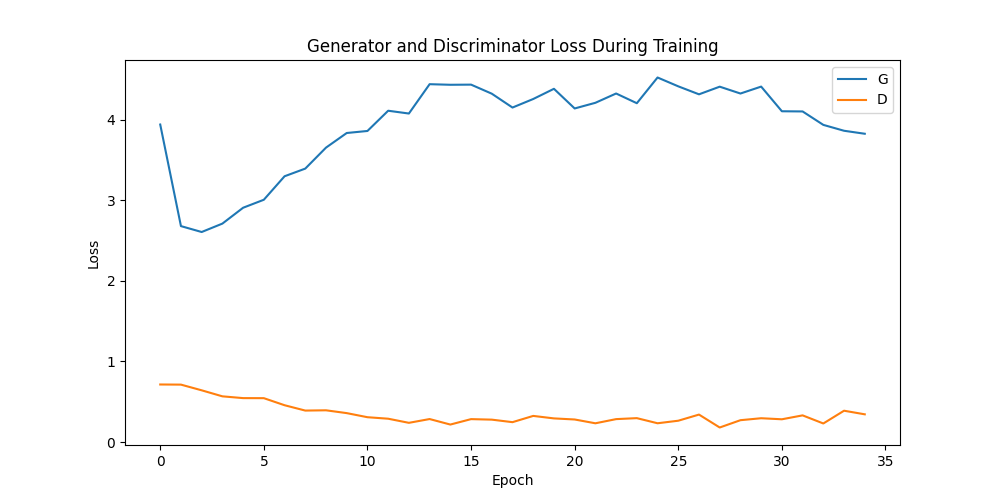
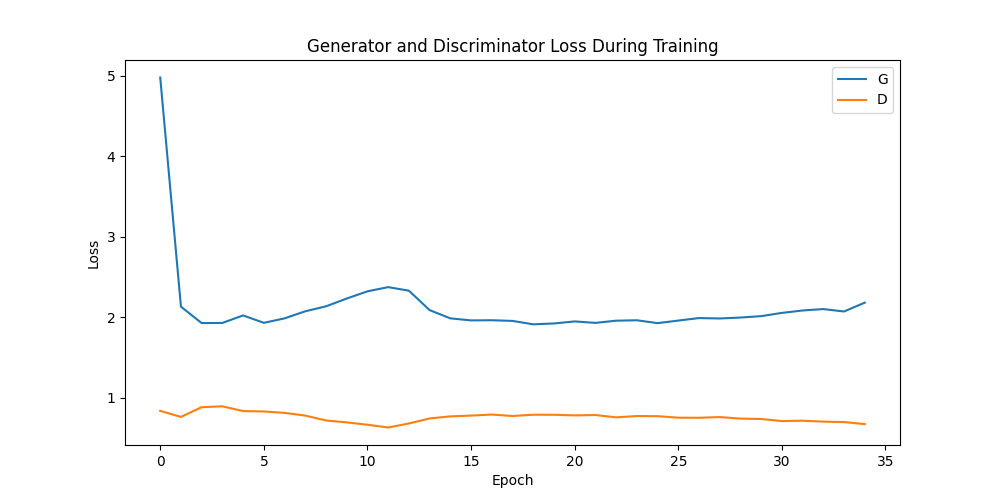
LSGAN
https://arxiv.org/pdf/1611.04076.pdf

diff --git a/src/train.py b/src/train.py
@@ -8,7 +8,7 @@ from tensorflow.keras import layers, Model
 from tqdm import tqdm
 
 IMAGE_SIZE = 64
-LATENT_SIZE = 128
+LATENT_SIZE = 1024
 BATCH_SIZE = 128
 EPOCHS = 35
 LR = 0.0002
@@ -17,25 +17,24 @@ LR = 0.0002
 def build_discriminator() -> Model:
     model = tf.keras.Sequential([
         layers.Input(shape=(IMAGE_SIZE, IMAGE_SIZE, 3)),
-        layers.Conv2D(64, (4, 4), strides=(2, 2), padding='same', use_bias=False),
+        layers.Conv2D(64, (5, 5), strides=(2, 2), padding='same', use_bias=False),
+        layers.LeakyReLU(0.2),
+        
+        layers.Conv2D(128, (5, 5), strides=(2, 2), padding='same', use_bias=False),
         layers.BatchNormalization(),
         layers.LeakyReLU(0.2),
         
-        layers.Conv2D(128, (4, 4), strides=(2, 2), padding='same', use_bias=False),
+        layers.Conv2D(256, (5, 5), strides=(2, 2), padding='same', use_bias=False),
         layers.BatchNormalization(),
         layers.LeakyReLU(0.2),
         
-        layers.Conv2D(256, (4, 4), strides=(2, 2), padding='same', use_bias=False),
+        layers.Conv2D(512, (5, 5), strides=(2, 2), padding='same', use_bias=False),
         layers.BatchNormalization(),
         layers.LeakyReLU(0.2),
         
-        layers.Conv2D(512, (4, 4), strides=(2, 2), padding='same', use_bias=False),
-        layers.BatchNormalization(),
-        layers.LeakyReLU(0.2),
-        
-        layers.Conv2D(1, (4, 4), padding='valid', use_bias=False),
         layers.Flatten(),
-        layers.Activation('sigmoid')
+        layers.Dense(1, use_bias=False),
+        layers.Activation('sigmoid'),
     ])
     return model
 
@@ -43,25 +42,38 @@ def build_discriminator() -> Model:
 def build_generator() -> Model:
     model = tf.keras.Sequential([
         layers.Input(shape=(LATENT_SIZE,)),
-        layers.Reshape((1, 1, LATENT_SIZE)),
+
+        layers.Dense(4 * 4 * 256, use_bias=False),
+        layers.BatchNormalization(),
+        layers.LeakyReLU(0.2),
+
+        layers.Reshape((4, 4, 256)),
         
-        layers.Conv2DTranspose(512, (4, 4), strides=(1, 1), padding='valid', use_bias=False),
+        layers.Conv2DTranspose(256, (3, 3), strides=(2, 2), padding='same', use_bias=False),
         layers.BatchNormalization(),
         layers.ReLU(),
         
-        layers.Conv2DTranspose(256, (4, 4), strides=(2, 2), padding='same', use_bias=False),
+        layers.Conv2DTranspose(256, (3, 3), strides=(1, 1), padding='same', use_bias=False),
         layers.BatchNormalization(),
         layers.ReLU(),
         
-        layers.Conv2DTranspose(128, (4, 4), strides=(2, 2), padding='same', use_bias=False),
+        layers.Conv2DTranspose(256, (3, 3), strides=(2, 2), padding='same', use_bias=False),
         layers.BatchNormalization(),
         layers.ReLU(),
         
-        layers.Conv2DTranspose(64, (4, 4), strides=(2, 2), padding='same', use_bias=False),
+        layers.Conv2DTranspose(256, (3, 3), strides=(1, 1), padding='same', use_bias=False),
         layers.BatchNormalization(),
         layers.ReLU(),
         
-        layers.Conv2DTranspose(3, (4, 4), strides=(2, 2), padding='same', use_bias=False),
+        layers.Conv2DTranspose(128, (3, 3), strides=(2, 2), padding='same', use_bias=False),
+        layers.BatchNormalization(),
+        layers.ReLU(),
+        
+        layers.Conv2DTranspose(64, (3, 3), strides=(2, 2), padding='same', use_bias=False),
+        layers.BatchNormalization(),
+        layers.ReLU(),
+        
+        layers.Conv2DTranspose(3, (3, 3), strides=(1, 1), padding='same', use_bias=False),
         layers.Activation('tanh')
     ])
     return model
